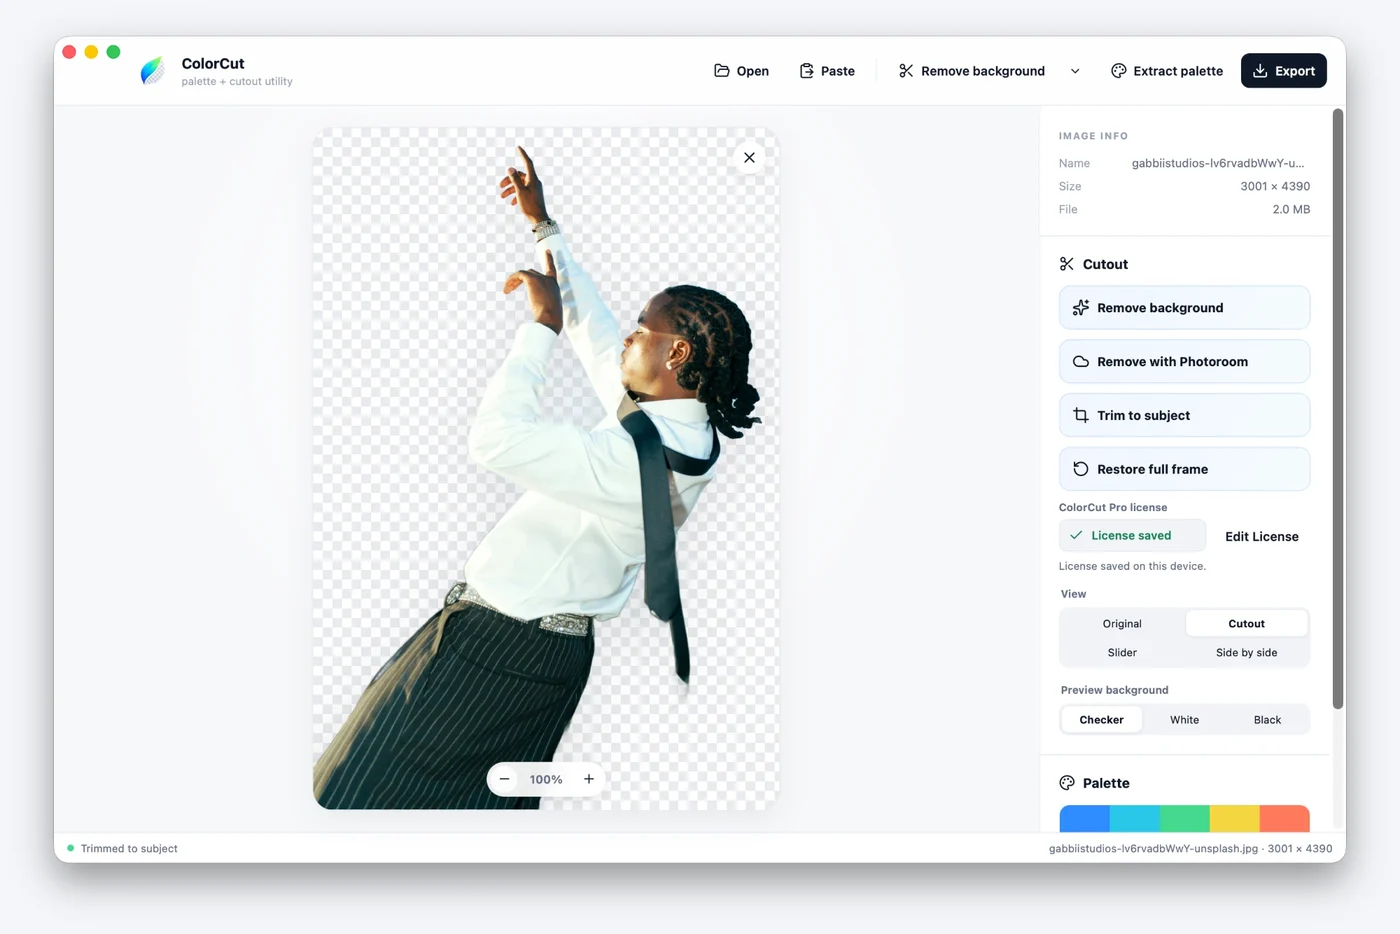
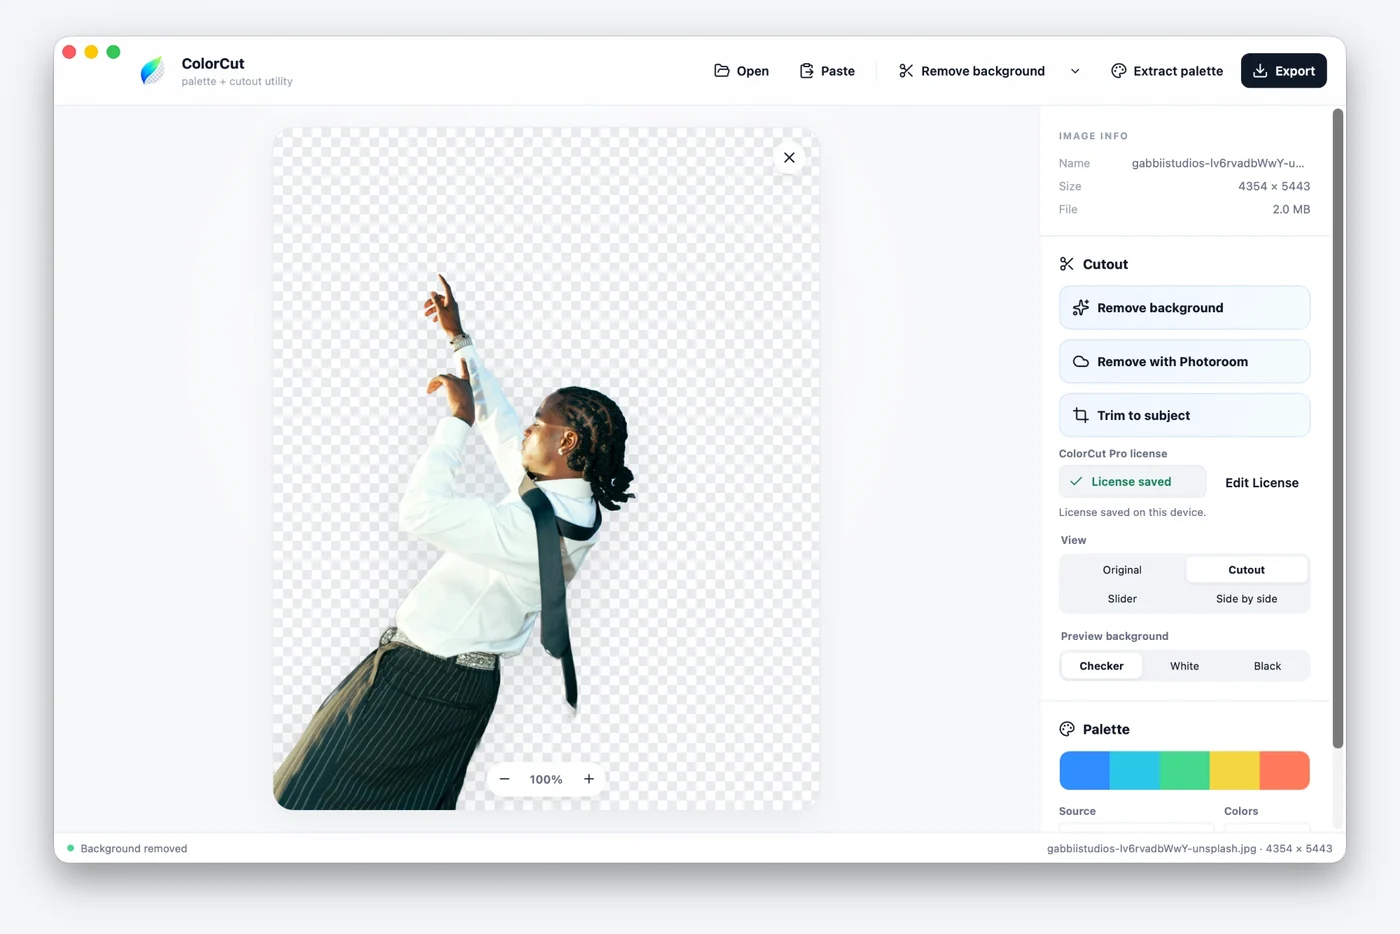
Lay out the trim steps as alternating image and text rows
Each step now sits beside its explanation, with the side swapped on
even steps. Steps use the four new screenshots (original, background
removed, trim, compare), and the text is in all four languages.

diff --git a/landing/i18n.js b/landing/i18n.js
@@ -157,6 +157,10 @@ window.COLORCUT_I18N = {
     "trim.step2": "2 · Remoção do fundo",
     "trim.step3": "3 · Recortar ao assunto",
     "trim.step4": "4 · Comparar original e recorte",
+    "trim.body1": "Sua foto como foi capturada. O assunto costuma ocupar só uma parte do quadro, com céu, parede ou paisagem em volta.",
+    "trim.body2": "O modelo local separa a pessoa do fundo e gera um recorte transparente. O quadro mantém o tamanho da foto.",
+    "trim.body3": "Um clique calcula a área do assunto pela transparência e recorta a imagem com uma margem pequena. Restaurar quadro completo desfaz o corte.",
+    "trim.body4": "Use Lado a lado ou Slider para conferir o resultado contra a foto original antes de exportar.",
     "trim.alt_b": "Recorte no quadro completo, com muito espaço transparente ao redor da personagem",
     "trim.alt_a": "O mesmo recorte depois de Recortar ao assunto, com margem pequena em volta da personagem",
     "faq.6.q": "Quantas cores posso extrair?",
@@ -331,6 +335,10 @@ window.COLORCUT_I18N = {
     "trim.step2": "2 · Background removed",
     "trim.step3": "3 · Trim to subject",
     "trim.step4": "4 · Compare original and cutout",
+    "trim.body1": "Your photo as captured. The subject often fills only part of the frame, with sky, wall or landscape around it.",
+    "trim.body2": "The local model separates the person from the background and produces a transparent cutout. The frame keeps the photo's size.",
+    "trim.body3": "One click finds the subject's area from the transparency and trims the image with a small margin. Restore full frame undoes the trim.",
+    "trim.body4": "Use Side by side or Slider to check the result against the original photo before exporting.",
     "trim.alt_b": "Cutout in the full frame, with lots of transparent space around the subject",
     "trim.alt_a": "The same cutout after Trim to subject, with a small margin around the subject",
     "faq.6.q": "How many colors can I extract?",
@@ -505,6 +513,10 @@ window.COLORCUT_I18N = {
     "trim.step2": "2 · Fondo eliminado",
     "trim.step3": "3 · Recortar al sujeto",
     "trim.step4": "4 · Comparar original y recorte",
+    "trim.body1": "Tu foto tal como fue capturada. El sujeto suele ocupar solo una parte del encuadre, con cielo, pared o paisaje alrededor.",
+    "trim.body2": "El modelo local separa a la persona del fondo y genera un recorte transparente. El encuadre mantiene el tamaño de la foto.",
+    "trim.body3": "Un clic calcula el área del sujeto a partir de la transparencia y recorta la imagen con un margen pequeño. Restaurar encuadre completo deshace el recorte.",
+    "trim.body4": "Usa Lado a lado o Slider para comparar el resultado con la foto original antes de exportar.",
     "trim.alt_b": "Recorte en el encuadre completo, con mucho espacio transparente alrededor del sujeto",
     "trim.alt_a": "El mismo recorte después de Recortar al sujeto, con un margen pequeño alrededor del sujeto",
     "faq.6.q": "¿Cuántos colores puedo extraer?",
@@ -679,6 +691,10 @@ window.COLORCUT_I18N = {
     "trim.step2": "2 · Hintergrund entfernt",
     "trim.step3": "3 · Auf Motiv zuschneiden",
     "trim.step4": "4 · Original und Freisteller vergleichen",
+    "trim.body1": "Dein Foto so wie aufgenommen. Das Motiv füllt oft nur einen Teil des Bildes, mit Himmel, Wand oder Landschaft drumherum.",
+    "trim.body2": "Das lokale Modell trennt die Person vom Hintergrund und erzeugt einen transparenten Freisteller. Der Bildausschnitt behält die Größe des Fotos.",
+    "trim.body3": "Ein Klick ermittelt den Bereich des Motivs aus der Transparenz und schneidet das Bild mit einem kleinen Rand zu. Volles Bild wiederherstellen macht den Zuschnitt rückgängig.",
+    "trim.body4": "Vergleiche das Ergebnis mit dem Originalfoto über Nebeneinander oder Regler, bevor du exportierst.",
     "trim.alt_b": "Freisteller im vollen Bild, mit viel transparentem Raum um das Motiv",
     "trim.alt_a": "Derselbe Freisteller nach Auf Motiv zuschneiden, mit einem kleinen Rand um das Motiv",
     "faq.6.q": "Wie viele Farben kann ich extrahieren?",

diff --git a/landing/index.html b/landing/index.html
@@ -252,11 +252,35 @@
           </header>
 
           <div class="trim">
-            <div class="shots trim__shots">
-              <figure class="shot"><button type="button" class="shot__open"><img src="assets/trim/step-1.webp?v=5" loading="lazy" width="1400" height="934" data-i18n-attr="alt:trim.step1" alt="" /></button><figcaption data-i18n="trim.step1"></figcaption></figure>
-              <figure class="shot"><button type="button" class="shot__open"><img src="assets/trim/step-2.webp?v=5" loading="lazy" width="1400" height="934" data-i18n-attr="alt:trim.step2" alt="" /></button><figcaption data-i18n="trim.step2"></figcaption></figure>
-              <figure class="shot"><button type="button" class="shot__open"><img src="assets/trim/step-3.webp?v=5" loading="lazy" width="1400" height="934" data-i18n-attr="alt:trim.step3" alt="" /></button><figcaption data-i18n="trim.step3"></figcaption></figure>
-              <figure class="shot"><button type="button" class="shot__open"><img src="assets/trim/step-4.webp?v=5" loading="lazy" width="1400" height="934" data-i18n-attr="alt:trim.step4" alt="" /></button><figcaption data-i18n="trim.step4"></figcaption></figure>
+            <div class="trim__rows">
+              <div class="trim__row">
+                <figure class="shot"><button type="button" class="shot__open"><img src="assets/trim/step-1.webp?v=6" loading="lazy" width="1400" height="934" data-i18n-attr="alt:trim.step1" alt="" /></button></figure>
+                <div class="trim__text">
+                  <h3 data-i18n="trim.step1"></h3>
+                  <p data-i18n="trim.body1"></p>
+                </div>
+              </div>
+              <div class="trim__row trim__row--rev">
+                <figure class="shot"><button type="button" class="shot__open"><img src="assets/trim/step-2.webp?v=6" loading="lazy" width="1400" height="934" data-i18n-attr="alt:trim.step2" alt="" /></button></figure>
+                <div class="trim__text">
+                  <h3 data-i18n="trim.step2"></h3>
+                  <p data-i18n="trim.body2"></p>
+                </div>
+              </div>
+              <div class="trim__row">
+                <figure class="shot"><button type="button" class="shot__open"><img src="assets/trim/step-3.webp?v=6" loading="lazy" width="1400" height="934" data-i18n-attr="alt:trim.step3" alt="" /></button></figure>
+                <div class="trim__text">
+                  <h3 data-i18n="trim.step3"></h3>
+                  <p data-i18n="trim.body3"></p>
+                </div>
+              </div>
+              <div class="trim__row trim__row--rev">
+                <figure class="shot"><button type="button" class="shot__open"><img src="assets/trim/step-4.webp?v=6" loading="lazy" width="1400" height="934" data-i18n-attr="alt:trim.step4" alt="" /></button></figure>
+                <div class="trim__text">
+                  <h3 data-i18n="trim.step4"></h3>
+                  <p data-i18n="trim.body4"></p>
+                </div>
+              </div>
             </div>
             <div class="trim__pairs">
               <figure class="trim__card">

diff --git a/landing/styles.css b/landing/styles.css
@@ -460,7 +460,6 @@ button { font: inherit; color: inherit; }
 
 /* ---------- Trim to subject ---------- */
 .trim { display: grid; gap: 28px; }
-.trim__shots { grid-template-columns: repeat(2, minmax(0, 1fr)); }
 .trim__pairs { display: grid; grid-template-columns: repeat(2, minmax(0, 1fr)); gap: 20px; }
 .trim__card {
   margin: 0; display: grid; grid-template-columns: minmax(0, 1fr) minmax(0, 1fr); gap: 16px;
@@ -482,4 +481,15 @@ button { font: inherit; color: inherit; }
   .trim__pairs, .trim__features { grid-template-columns: 1fr; }
   .trim__frame { height: 240px; }
 }
-@media (max-width: 600px) { .trim__shots { grid-template-columns: 1fr; } }
+.trim__rows { display: grid; gap: 56px; }
+.trim__row { display: grid; grid-template-columns: minmax(0, 1.4fr) minmax(0, 1fr); gap: 48px; align-items: center; }
+.trim__row--rev { grid-template-columns: minmax(0, 1fr) minmax(0, 1.4fr); }
+.trim__row--rev .shot { order: 2; }
+.trim__row .shot { margin: 0; }
+.trim__text { display: grid; gap: 12px; }
+.trim__text h3 { margin: 0; font-size: 24px; line-height: 1.25; }
+.trim__text p { margin: 0; font-size: 16px; line-height: 1.6; color: var(--text-2); }
+@media (max-width: 760px) {
+  .trim__row, .trim__row--rev { grid-template-columns: 1fr; gap: 20px; }
+  .trim__row--rev .shot { order: 0; }
+}
